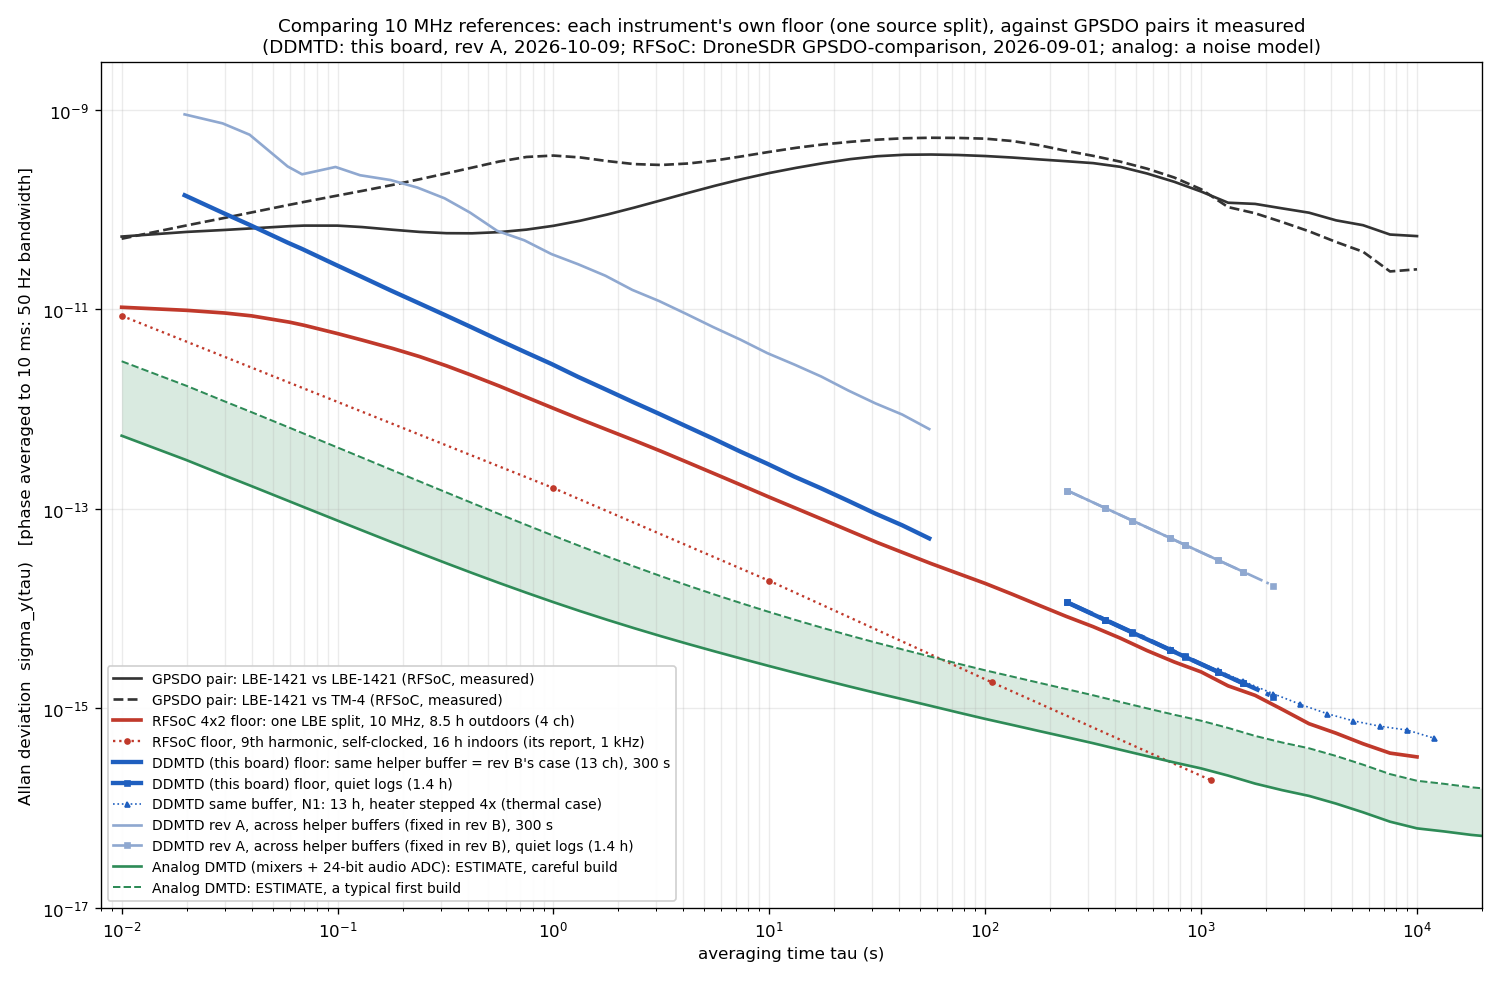
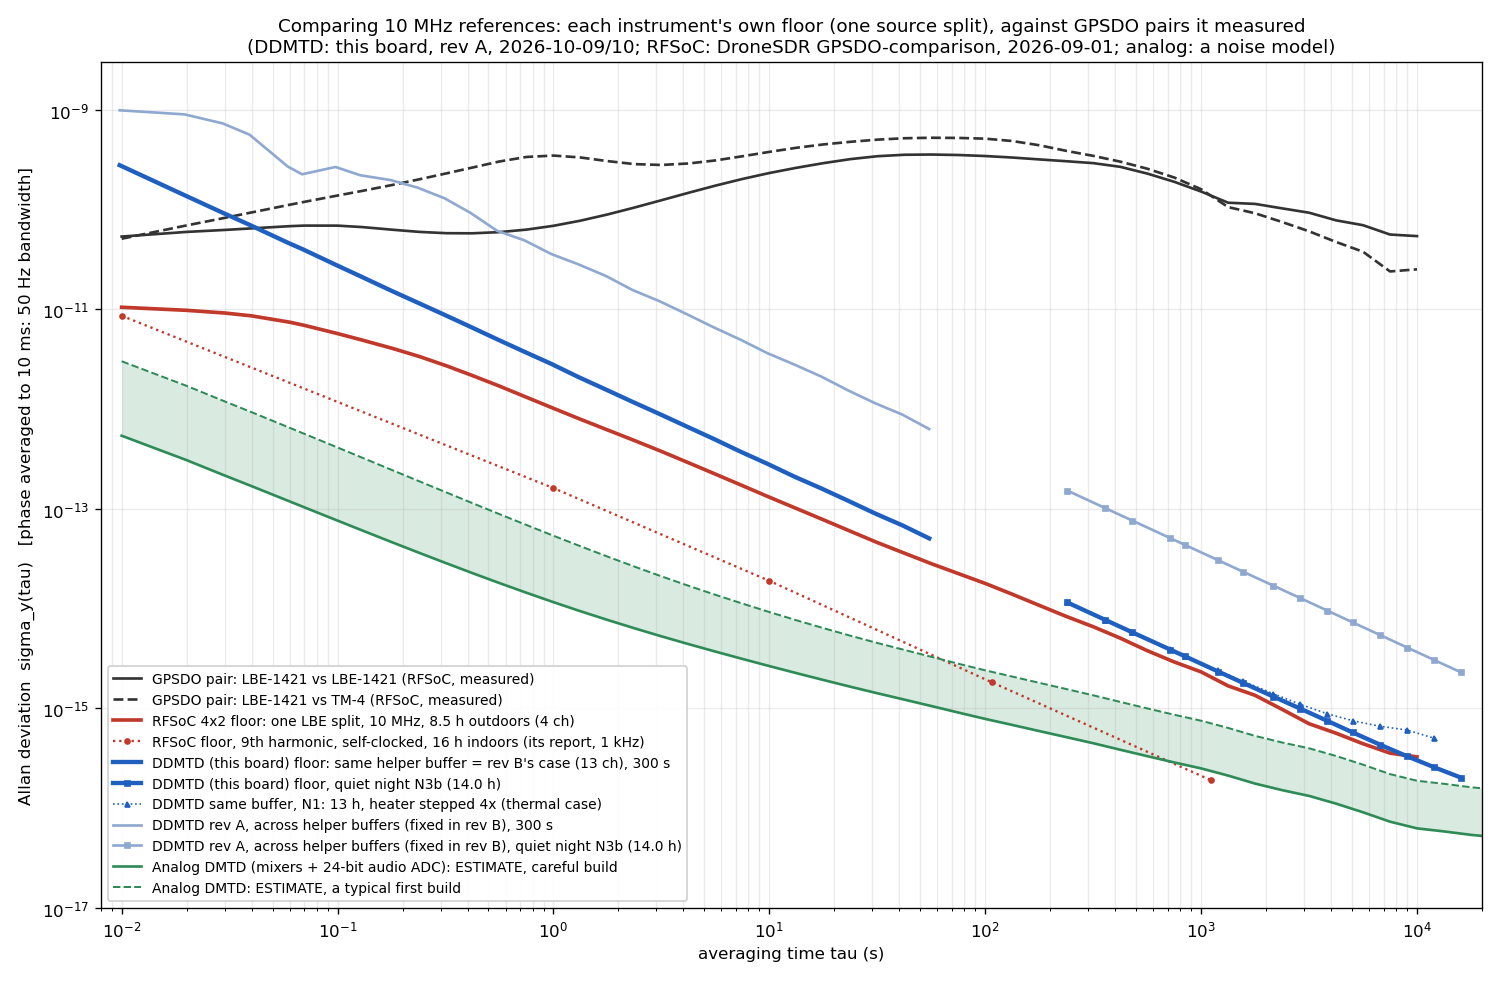
GPSDO-PYNQ-Z2: 45.27 -- N3b, the 14 h quiet night, as the floor comparison's long end
Same-buffer TDEV 0.19 ps at 1000 s, 0.30 at 1 h, 0.46 at 3 h (N1 with the
heater stepped: 0.31, 0.88, 2.2); across buffers 0.6-0.7 ps (N1: 3.5-8).
ADEV 3.0e-16 at 3 h, level with the RFSoC's outdoor null. Corrects 45.25:
a careful analog build would gain 2-10x at long tau, not nothing.
floor_plot.py --table prints the README's tables from the plotted curves.

Claude-Session: https://claude.ai/code/session_0174Yx6CqrDiAWHHb3wASje1

diff --git a/analysis/floor_compare/floor_plot.py b/analysis/floor_compare/floor_plot.py
@@ -3,12 +3,13 @@
 GPSDOs they exist to compare.
 
     python3 floor_plot.py            # writes floor_compare_adev.png, _tdev.png
+    python3 floor_plot.py --table    # the README's two tables, from the same curves
 
 ADEV panel: every instrument's phase averaged into 10 ms bins first (one
 50 Hz bandwidth for all), so the floors compare like with like.  TDEV panel:
 bandwidth-independent, in picoseconds, where the long-tau story is clearest.
 """
-import json, os
+import json, os, sys
 import numpy as np
 import matplotlib
 matplotlib.use("Agg")
@@ -31,10 +32,14 @@ def seg(curve, tmin=None, tmax=None):
 
 
 def ddmtd_long(pair, key):
-    """The long-tau DDMTD curve: the quiet log after the L1 strap if it is long
-    enough, else the one before it; N1 (heater stepped) as the long tail."""
+    """The long-tau DDMTD curve: N3b, the 14 h quiet night after the L1 strap
+    (2026-10-09/10), or failing that the short quiet logs N3 and N2 before it.
+    N1 (heater stepped) is drawn separately as the thermal case."""
+    d = R["ddmtd_logs"].get("overnight_20261009T1714Z", {}).get(pair)
+    if d:
+        return [("overnight_20261009T1714Z", d)]
     out = []
-    for name in ("overnight_20261009T1714Z", "overnight_20261009T1541Z", "overnight_20261009T1320Z"):
+    for name in ("overnight_20261009T1541Z", "overnight_20261009T1320Z"):
         d = R["ddmtd_logs"].get(name, {}).get(pair)
         if d:
             out.append((name, d))
@@ -66,7 +71,8 @@ def panel(ax, key, ylabel):
     sh = R["ddmtd_short"]
     for pair, col, lw, lab in (("2-1", C_DD, 2.6, "DDMTD (this board) floor: same helper buffer = rev B's case (13 ch)"),
                                ("10-1", C_DDX, 1.6, "DDMTD rev A, across helper buffers (fixed in rev B)")):
-        t, d = seg(sh[pair][key], tmin=0.01)
+        # from 9.8 ms: twelve transitions to a 10 ms bin at 1226 Hz
+        t, d = seg(sh[pair][key], tmin=0.0095)
         if key == "tdev":
             d = d * 1e12
         ax.plot(t, d, color=col, lw=lw, label=lab + ", 300 s")
@@ -82,7 +88,7 @@ def panel(ax, key, ylabel):
             else:
                 d2 = np.sqrt(d2 ** 2 + (a_w / t2) ** 2)
             ax.plot(t2, d2, color=col, lw=lw, ls="-" if first else "-.", marker="s", ms=3,
-                    label=(lab.split(":")[0] + ", quiet logs (%.1f h)" % dl["hours"]) if first else None)
+                    label=(lab.split(":")[0] + ", quiet night N3b (%.1f h)" % dl["hours"]) if first else None)
             first = False
         n1 = R["ddmtd_logs"].get("overnight_20261008T2322Z", {}).get(pair)
         if n1 and pair == "2-1":
@@ -112,7 +118,61 @@ def panel(ax, key, ylabel):
     ax.set_xlim(8e-3, 2e4)
 
 
+# The README's tables, read off the plotted curves themselves: (row, the
+# legend labels whose points make it up).  Where tau falls in the gap between
+# the 300 s recording (to ~50 s) and a log's first point (240 s), the value is
+# interpolated across it and marked "~".
+TABLE_TAUS = (0.01, 0.1, 1.0, 10.0, 100.0, 1000.0, 3600.0, 10000.0)
+TABLE_ROWS = (
+    ("DDMTD, same buffer (rev B's case)", ("same helper buffer = rev B", "floor, quiet night")),
+    ("DDMTD, across buffers (rev A)", ("across helper buffers (fixed in rev B), 300 s",
+                                       "across helper buffers (fixed in rev B), quiet night")),
+    ("DDMTD, same buffer, N1 (heater stepped)", ("N1: 13 h",)),
+    ("RFSoC null, 10 MHz, outdoors", ("RFSoC 4x2 floor",)),
+    ("RFSoC null, 9th harmonic, indoors (report, 1 kHz)", ("9th harmonic",)),
+    ("Analog DMTD, estimate: careful build", ("ESTIMATE, careful build",)),
+    ("Analog DMTD, estimate: typical first build", ("ESTIMATE, a typical first build",)),
+    ("GPSDO pair: LBE-1421 vs LBE-1421", ("LBE-1421 vs LBE-1421",)),
+    ("GPSDO pair: LBE-1421 vs TM-4", ("LBE-1421 vs TM-4",)),
+)
+
+
+def table(ax, key):
+    lines = [(l.get_label(), np.asarray(l.get_xdata(), float), np.asarray(l.get_ydata(), float))
+             for l in ax.get_lines()]
+    fmt = (lambda v: "%.2g" % v) if key == "tdev" else (lambda v: "%.1e" % v)
+    out = ["| tau (s) | " + " | ".join("%g" % t for t in TABLE_TAUS) + " |",
+           "|---" * (len(TABLE_TAUS) + 1) + "|"]
+    for row, parts in TABLE_ROWS:
+        t = np.concatenate([x for lab, x, y in lines if any(p in lab for p in parts)] or [[]])
+        d = np.concatenate([y for lab, x, y in lines if any(p in lab for p in parts)] or [[]])
+        if not len(t):
+            continue
+        o = np.argsort(t)
+        t, d = t[o], d[o]
+        cells = []
+        for tau in TABLE_TAUS:
+            if tau < t[0] / 1.1 or tau > t[-1] * 1.1:          # within 10% of an end
+                cells.append("")
+                continue
+            v = float(np.exp(np.interp(np.log(tau), np.log(t), np.log(d))))
+            i = int(np.searchsorted(t, tau))
+            on_point = np.min(np.abs(np.log(t / tau))) < 0.02
+            gap = not on_point and 0 < i < len(t) and t[i] / t[i - 1] > 2.5
+            cells.append(("~" if gap else "") + fmt(v))
+        out.append("| %s | %s |" % (row, " | ".join(cells)))
+    return "\n".join(out)
+
+
 def main():
+    if "--table" in sys.argv:
+        for key in ("adev", "tdev"):
+            fig, ax = plt.subplots()
+            panel(ax, key, "")
+            print(key.upper() + (" (ps)" if key == "tdev" else ", 50 Hz bandwidth"))
+            print(table(ax, key))
+            print()
+        return
     for key, ylabel, fn, ylim in (
             ("adev", "Allan deviation  sigma_y(tau)   [phase averaged to 10 ms: 50 Hz bandwidth]",
              "floor_compare_adev.png", (1e-17, 3e-9)),
@@ -121,7 +181,7 @@ def main():
         panel(ax, key, ylabel)
         ax.set_ylim(*ylim)
         ax.set_title("Comparing 10 MHz references: each instrument's own floor (one source split), "
-                     "against GPSDO pairs it measured\n(DDMTD: this board, rev A, 2026-10-09; "
+                     "against GPSDO pairs it measured\n(DDMTD: this board, rev A, 2026-10-09/10; "
                      "RFSoC: DroneSDR GPSDO-comparison, 2026-09-01; analog: a noise model)",
                      fontsize=11)
         ax.legend(fontsize=8.3, loc="lower left" if key == "adev" else "upper left", framealpha=0.92)

diff --git a/analysis/floor_compare/README.md b/analysis/floor_compare/README.md
@@ -1,8 +1,8 @@
 # Measurement floors: this board (DDMTD) vs the RFSoC 4x2 vs an analog DMTD
 
-2026-10-09 (GPSDO-PYNQ-Z2 README 45.25).  `floor_compare_adev.png` and
-`floor_compare_tdev.png`, from `floor_compare.py` (the numbers) and
-`floor_plot.py` (the figures).
+2026-10-09 (GPSDO-PYNQ-Z2 README 45.25); the long end from N3b, 2026-10-10
+(45.27). `floor_compare_adev.png` and `floor_compare_tdev.png`, from
+`floor_compare.py` (the numbers) and `floor_plot.py` (the figures).
 
 ![ADEV](floor_compare_adev.png)
 ![TDEV](floor_compare_tdev.png)
@@ -11,7 +11,7 @@
 
 | Curve | Source | Measured? |
 |---|---|---|
-| DDMTD, same helper buffer (units 2 − 1) | this board, rev A after the L1 strap. One OCXO through its distribution amplifier into units 1, 2, 10 and 11. A 300 s continuous recording of every beat transition (2026-10-09 17:13Z), plus the quiet logs N2/N3, one 20 s mean every 120 s. | yes |
+| DDMTD, same helper buffer (units 2 − 1) | this board, rev A after the L1 strap. One OCXO through its distribution amplifier into units 1, 2, 10 and 11. A 300 s continuous recording of every beat transition (2026-10-09 17:13Z), plus N3b, a 14 h quiet night (2026-10-09 17:14Z to 10-10 07:13Z, no heater steps, the board drifting 21.5-23.7 °C with the room), one 20 s mean every 120 s. N1 (13 h, the heater stepped four times) is drawn as the thermal case. | yes |
 | DDMTD, across helper buffers (10 − 1) | the same recordings | yes |
 | RFSoC 4x2 null | DroneSDR `GPSDO-comparison`, sky day 2026-09-01: one LBE-1421 split by a tee into ADC_A and ADC_D at 10 MHz, 8.5 h outdoors. Recomputed here from the raw 1 kHz IQ dumps. | yes |
 | RFSoC 9th-harmonic null | the 16 h indoor night run's report (`analysis/20260830/report.txt`). Self-clocked, so the instrument's best case. | yes (its report) |
@@ -28,30 +28,34 @@ added back to them. TDEV (the second figure) needs no such step.
 
 ## The numbers
 
-ADEV at a 50 Hz bandwidth:
+ADEV at a 50 Hz bandwidth (`python3 floor_plot.py --table` reads both tables
+off the plotted curves; "~" is interpolated across the gap between the
+300 s recording and the log's first point at 240 s):
 
-| τ (s) | 0.01 | 0.1 | 1 | 10 | 100 | 1000 | 3600 |
-|---|---|---|---|---|---|---|---|
-| DDMTD, same buffer (rev B's case) | 2.7e-10 | 2.7e-11 | 2.8e-12 | 2.8e-13 | 2.8e-14 | 2.8e-15 | 9.2e-16 ¹ |
-| DDMTD, across buffers (rev A) | 9.9e-10 | 2.6e-10 | 3.5e-11 | 3.6e-12 | 3.4e-14 | 3.9e-15 | 5.2e-15 ¹ |
-| RFSoC null, 10 MHz, outdoors | 1.0e-11 | 5.7e-12 | 1.0e-12 | 1.3e-13 | 1.8e-14 | 2.3e-15 | 6.3e-16 |
-| RFSoC null, 9th harmonic, indoors (report, 1 kHz) | 8.6e-12 | 1.2e-12 | 1.6e-13 | 1.9e-14 | 1.9e-15 | 2.1e-16 | |
-| Analog DMTD, estimate: careful build | 5.4e-13 | 7.6e-14 | 1.2e-14 | 2.6e-15 | 7.8e-16 | 2.5e-16 | 1.2e-16 |
-| Analog DMTD, estimate: typical first build | 3.0e-12 | 4.1e-13 | 5.4e-14 | 9.2e-15 | 2.4e-15 | 7.5e-16 | 3.7e-16 |
-| GPSDO pair: LBE-1421 vs LBE-1421 | 5.4e-11 | 6.9e-11 | 6.9e-11 | 2.3e-10 | 3.4e-10 | 1.5e-10 | 8.6e-11 |
-| GPSDO pair: LBE-1421 vs TM-4 | 5.1e-11 | 1.4e-10 | 3.5e-10 | 3.8e-10 | 5.1e-10 | 1.6e-10 | 5.4e-11 |
+| tau (s) | 0.01 | 0.1 | 1 | 10 | 100 | 1000 | 3600 | 10000 |
+|---|---|---|---|---|---|---|---|---|
+| DDMTD, same buffer (rev B's case) | 2.7e-10 | 2.7e-11 | 2.8e-12 | 2.8e-13 | ~2.8e-14 | 2.8e-15 | 7.9e-16 | 3.0e-16 |
+| DDMTD, across buffers (rev A) | 9.9e-10 | 2.6e-10 | 3.5e-11 | 3.6e-12 | ~3.5e-13 | 3.6e-14 | 1.0e-14 | 3.6e-15 |
+| DDMTD, same buffer, N1 (heater stepped) |  |  |  |  |  | 2.8e-15 | 9.2e-16 | 5.6e-16 |
+| RFSoC null, 10 MHz, outdoors | 1.0e-11 | 5.7e-12 | 1.0e-12 | 1.3e-13 | 1.8e-14 | 2.3e-15 | 6.3e-16 | 3.2e-16 |
+| RFSoC null, 9th harmonic, indoors (report, 1 kHz) | 8.6e-12 | ~1.2e-12 | 1.6e-13 | 1.9e-14 | ~1.9e-15 | ~2.1e-16 |  |  |
+| Analog DMTD, estimate: careful build | 5.4e-13 | 7.6e-14 | 1.2e-14 | 2.6e-15 | 7.8e-16 | 2.5e-16 | 1.2e-16 | 6.2e-17 |
+| Analog DMTD, estimate: typical first build | 3.0e-12 | 4.1e-13 | 5.4e-14 | 9.2e-15 | 2.4e-15 | 7.5e-16 | 3.7e-16 | 1.9e-16 |
+| GPSDO pair: LBE-1421 vs LBE-1421 | 5.4e-11 | 6.9e-11 | 6.9e-11 | 2.3e-10 | 3.4e-10 | 1.5e-10 | 8.6e-11 | 5.4e-11 |
+| GPSDO pair: LBE-1421 vs TM-4 | 5.1e-11 | 1.4e-10 | 3.5e-10 | 3.8e-10 | 5.1e-10 | 1.6e-10 | 5.4e-11 | 2.5e-11 |
 
 TDEV, in ps:
 
-| τ (s) | 0.01 | 0.1 | 1 | 10 | 100 | 1000 | 3600 |
-|---|---|---|---|---|---|---|---|
-| DDMTD, same buffer | 1.55 | 0.50 | 0.18 | 0.056 | 0.062 | 0.093 | 0.88 ¹ |
-| DDMTD, across buffers | 5.7 | 9.2 | 7.1 | 2.0 | 1.4 | 0.66 | 8.2 ¹ |
-| RFSoC null, outdoors | 0.061 | 0.24 | 0.32 | 0.33 | 0.51 | 0.54 | 0.32 |
-| GPSDO pair: LBE vs LBE | 0.31 | 3.2 | 35 | 1.2e3 | 1.6e4 | 5.5e4 | 7.3e4 |
-
-¹ From N1, 13 h with the heater stepped four times: the thermal case, not the
-quiet one. N3b (quiet, running until 2026-10-10 00:14) replaces it.
+| tau (s) | 0.01 | 0.1 | 1 | 10 | 100 | 1000 | 3600 | 10000 |
+|---|---|---|---|---|---|---|---|---|
+| DDMTD, same buffer (rev B's case) | 1.5 | 0.5 | 0.18 | 0.056 | ~0.052 | 0.19 | 0.3 | 0.46 |
+| DDMTD, across buffers (rev A) | 5.9 | 9.2 | 7.1 | 2 | ~0.78 | 0.62 | 0.7 | 0.55 |
+| DDMTD, same buffer, N1 (heater stepped) |  |  |  |  |  | 0.31 | 0.88 | 2.2 |
+| RFSoC null, 10 MHz, outdoors | 0.06 | 0.24 | 0.32 | 0.32 | 0.5 | 0.54 | 0.32 | 0.87 |
+| Analog DMTD, estimate: careful build | 0.0031 | 0.0023 | 0.0037 | 0.01 | 0.032 | 0.1 | 0.17 | 0.26 |
+| Analog DMTD, estimate: typical first build | 0.017 | 0.012 | 0.014 | 0.032 | 0.096 | 0.3 | 0.51 | 0.77 |
+| GPSDO pair: LBE-1421 vs LBE-1421 | 0.31 | 3.2 | 35 | 1.2e+03 | 1.6e+04 | 5.5e+04 | 7.3e+04 | 1e+05 |
+| GPSDO pair: LBE-1421 vs TM-4 | 0.3 | 7.1 | 1.6e+02 | 1.9e+03 | 2.4e+04 | 5.2e+04 | 3.8e+04 | 2.2e+04 |
 
 - **The same-buffer DDMTD pair sits at the DDMTD's quantization limit.** Its
   5.4 ps rms per transition is the 12.3 ps step divided by √6, the spread of
@@ -74,15 +78,25 @@ quiet one. N3b (quiet, running until 2026-10-10 00:14) replaces it.
 
    Direct sampling with IQ demodulation beats a 12.3 ps DDMTD step until the
    DDMTD's 1226 transitions a second have averaged it down.
-3. **From 100 s up the two are level**: 1.8e-14 against 2.8e-14 at 100 s, and
-   2.3e-15 against 2.8e-15 at 1000 s. In TDEV the DDMTD's same-buffer pair
-   (0.06-0.09 ps at 10-1000 s, indoors, an OCXO split) beats the RFSoC's
-   outdoor null (0.3-0.5 ps, cables in the sun). The RFSoC's indoor night run
-   (~0.1 ps) matches it. **Past ~100 s the room sets the floor, not the
-   method.**
+3. **From 100 s up the two are level**:
+   - ADEV: 1.8e-14 against 2.8e-14 at 100 s, 2.3e-15 against 2.8e-15 at
+     1000 s, and 3.2e-16 against 3.0e-16 at 10⁴ s (N3b).
+   - TDEV: the DDMTD's same-buffer pair, indoors on an OCXO split, holds
+     0.05 ps at 10-100 s and rises to 0.19 ps at 1000 s, 0.30 ps at 1 h and
+     0.46 ps at 3 h. The RFSoC's outdoor null (cables in the sun) is 0.3-0.9
+     ps over the same range. Its indoor night run (~0.1 ps) is close to the
+     DDMTD's.
+
+   **Past ~100 s the room sets the floor, not the method.** N1, the same pair
+   with the heater stepped four times, reached 0.88 ps at 1 h and 2.2 ps at
+   3 h.
 4. **Rev A's helper tree costs 12x at 1 s** (pairs across buffers: 3.5e-11
    against 2.8e-12; TDEV 7 ps against 0.18 ps). That is item 22, and rev B's
    single fan-out exists to make every pair look like the same-buffer one.
+   At long τ it is mostly thermal:
+   - in the quiet night, pair 10 − 1 holds 0.6-0.7 ps TDEV from 1000 s to 3 h;
+   - with the heater stepped (N1) it reached 3.5 ps at 1000 s and 8 ps at 1 h,
+     which is N1's 4-4.5 ps/K between buffer groups.
 5. **Channels and cost.** The DDMTD has 13 channels at about $100 a board
    assembled (the rev B release estimate: $193 for 2). The RFSoC 4x2 has 4
    channels at about $2,000 (an academic price, not from the DroneSDR notes).
@@ -135,6 +149,26 @@ as the DroneSDR README's own estimate (README lines 1721-1733).
 - **Below 0.3 s on these GPSDOs, yes, a little:** the DDMTD's floor meets the
   LBE-1421 pair at τ ≈ 0.02 s. The RFSoC already covers that range, on 4
   channels.
-- **From ~100 s up, no:** every method there is limited by the room's
-  temperature acting on its delays. The analog chain's delays drift with
-  temperature no less than a gate's do.
+- **From ~100 s up, a careful build gains 2-10x; a typical one gains nothing.**
+  N3b (2026-10-10) corrects what this said before ("no").
+  - ADEV: the DDMTD's white phase noise still sets its 50 Hz ADEV out to
+    ~1000 s, so a careful analog build would sit 11x lower at 1000 s, 7x at
+    1 h and 5x at 3 h. A typical first build would sit 4x, 2x and 1.6x lower.
+  - TDEV: the careful build is about 2x lower (0.10 against 0.19 ps at
+    1000 s, 0.17 against 0.30 at 1 h). The typical one is higher (0.30, 0.51).
+  - Both of those long-τ numbers rest on the model's assumed thermal term,
+    0.1-0.3 ps at 1000 s. An analog chain's delays drift with temperature no
+    less than a gate's do, so that term is an assumption, not a measurement.
+  - The GPSDOs here sit 10⁵ above both.
+
+## Reproduce
+
+The DDMTD data are local (gitignored, `gateware/board/overnight_*`); the
+RFSoC's are DroneSDR's raw IQ dumps beside this repository.
+
+    B=../../gateware/board
+    python3 floor_compare.py --ddmtd-npz $B/overnight_20261009T1713Z_floor300/beats_1_2_10_11.npz \
+        --logs $B/overnight_20261008T2322Z $B/overnight_20261009T1320Z \
+               $B/overnight_20261009T1541Z $B/overnight_20261009T1714Z
+    python3 floor_plot.py              # the two figures
+    python3 floor_plot.py --table      # the two tables above

diff --git a/README.md b/README.md
@@ -15848,3 +15848,25 @@ order it met them. Each footprint item now gets its own deterministic uuid.
 - **Known:** PPS_09 runs 317 mm round the right and bottom edges (rev A:
   135 mm). A 1 pps line, so the cost is a fixed ~2 ns.
 - To order on another day, set `DATE` to that day and rebuild.
+
+### 45.27 N3b, the quiet night, at the long end of the floor comparison
+
+N3b ran 14 h, from 2026-10-09 17:14Z to 10-10 07:13Z, after the L1 strap.
+The heater was not stepped, and the board drifted 21.5-23.7 °C with the
+room. It replaces N1 (the heater stepped four times) as the DDMTD's long-τ
+curve in `analysis/floor_compare/`.
+- **The same-buffer pair 2 − 1:**
+  - TDEV 0.19 ps at 1000 s, 0.30 ps at 1 h and 0.46 ps at 3 h (N1: 0.31,
+    0.88, 2.2);
+  - ADEV at 50 Hz: 2.8e-15 at 1000 s (still the white phase noise), 7.9e-16
+    at 1 h, and 3.0e-16 at 3 h. The RFSoC's outdoor null gives 3.2e-16 at 3 h.
+- **Across helper buffers (10 − 1, rev A's problem):** 0.6-0.7 ps TDEV from
+  1000 s to 3 h. N1 gave 3.5 ps at 1000 s and 8 ps at 1 h. The buffer-group
+  wander is thermal; in a quiet room it is small.
+- **Correction to 45.25:** the analog DMTD estimate does gain at long τ.
+  - A careful build: 11x lower ADEV at 1000 s, 5x at 3 h, and about 2x in
+    TDEV.
+  - A typical first build: 1.6-4x in ADEV, and nothing in TDEV.
+  - Both rest on an assumed thermal term. The GPSDOs sit 10⁵ above all of
+    it.
+- `floor_plot.py --table` now prints both tables from the plotted curves.
